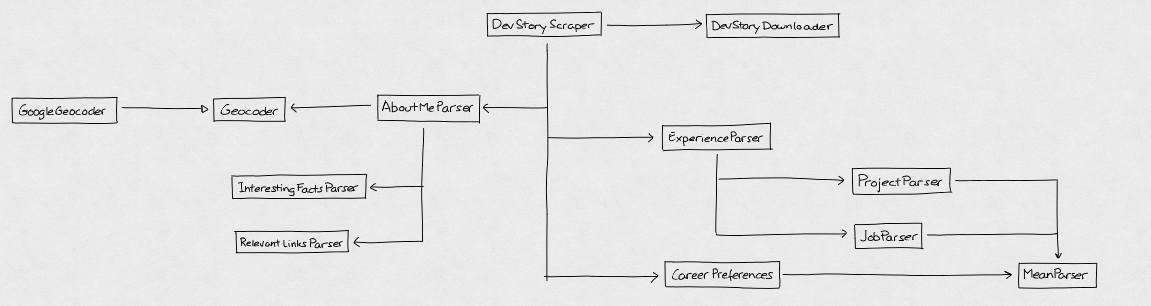
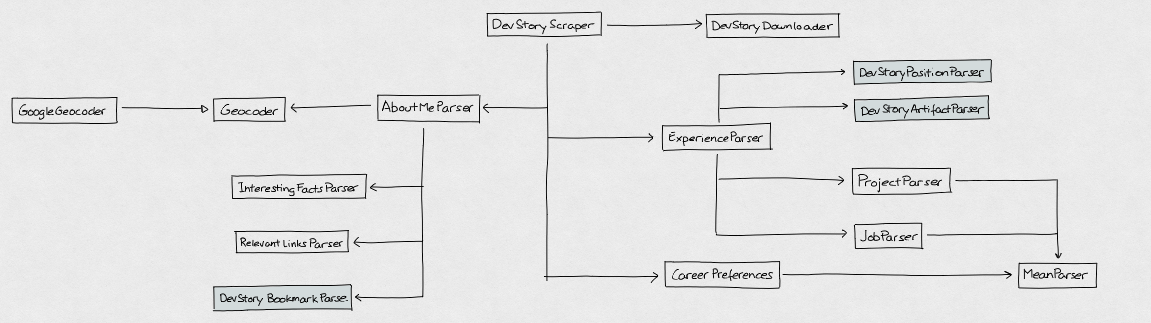
chore: refactored dev story bookmark parser to its own file

diff --git a/src/parsers/aboutMeParser.ts b/src/parsers/aboutMeParser.ts
@@ -1,4 +1,4 @@
-import cheerio, {CheerioAPI} from 'cheerio';
+import {CheerioAPI} from 'cheerio';
 import * as _ from 'lodash';
 
 import {Profile} from '../models/profile';
@@ -12,7 +12,7 @@ import {InterestingFact} from '../models/interestingFact';
 import {RelevantLink} from '../models/relevantLink';
 import {InterestingFactsParser} from './interestingFactsParser';
 import {RelevantLinksParser} from './relevantLinksParser';
-import {Bookmark} from '../models/bookmark';
+import {DevStoryBookmarkParse} from './devStory/devStoryBookmarkParse';
 
 export class AboutMeParser {
   constructor(private readonly geocoder: Geocoder) {}
@@ -84,25 +84,5 @@ export class AboutMeParser {
       .get();
 
     return RelevantLinksParser.parse(links);
-  }
-}
-
-export class DevStoryBookmarkParse {
-  static parse(html: string): Bookmark {
-    const $ = cheerio.load(html);
-
-    const authors = stripString($('.readings-item-author').text()).replace('by ', '');
-    const firstAuthor = authors.split(/\s*,\s*|\sand\s/)[0];
-
-    return {
-      title: stripString($('.readings-item-title').text()),
-      URL: $('.readings-item-title a').attr('href'),
-      author: {
-        name: _.head(firstAuthor.split(' ')) || '',
-        surnames: _.tail(firstAuthor.split(' ')).join(' ') || '',
-        title: 'Author',
-      },
-      summary: Markdown.fromHTML($('.readings-item-summary .description-content-full').html() || ''),
-    };
   }
 }

diff --git a/src/parsers/devStory/devStoryBookmarkParse.ts b/src/parsers/devStory/devStoryBookmarkParse.ts
@@ -1,0 +1,25 @@
+import {Bookmark} from '../../models/bookmark';
+import cheerio from 'cheerio';
+import {stripString} from '../../utils/utils';
+import * as _ from 'lodash';
+import {Markdown} from '../../utils/markdown';
+
+export class DevStoryBookmarkParse {
+  static parse(html: string): Bookmark {
+    const $ = cheerio.load(html);
+
+    const authors = stripString($('.readings-item-author').text()).replace('by ', '');
+    const firstAuthor = authors.split(/\s*,\s*|\sand\s/)[0];
+
+    return {
+      title: stripString($('.readings-item-title').text()),
+      URL: $('.readings-item-title a').attr('href'),
+      author: {
+        name: _.head(firstAuthor.split(' ')) || '',
+        surnames: _.tail(firstAuthor.split(' ')).join(' ') || '',
+        title: 'Author',
+      },
+      summary: Markdown.fromHTML($('.readings-item-summary .description-content-full').html() || ''),
+    };
+  }
+}
